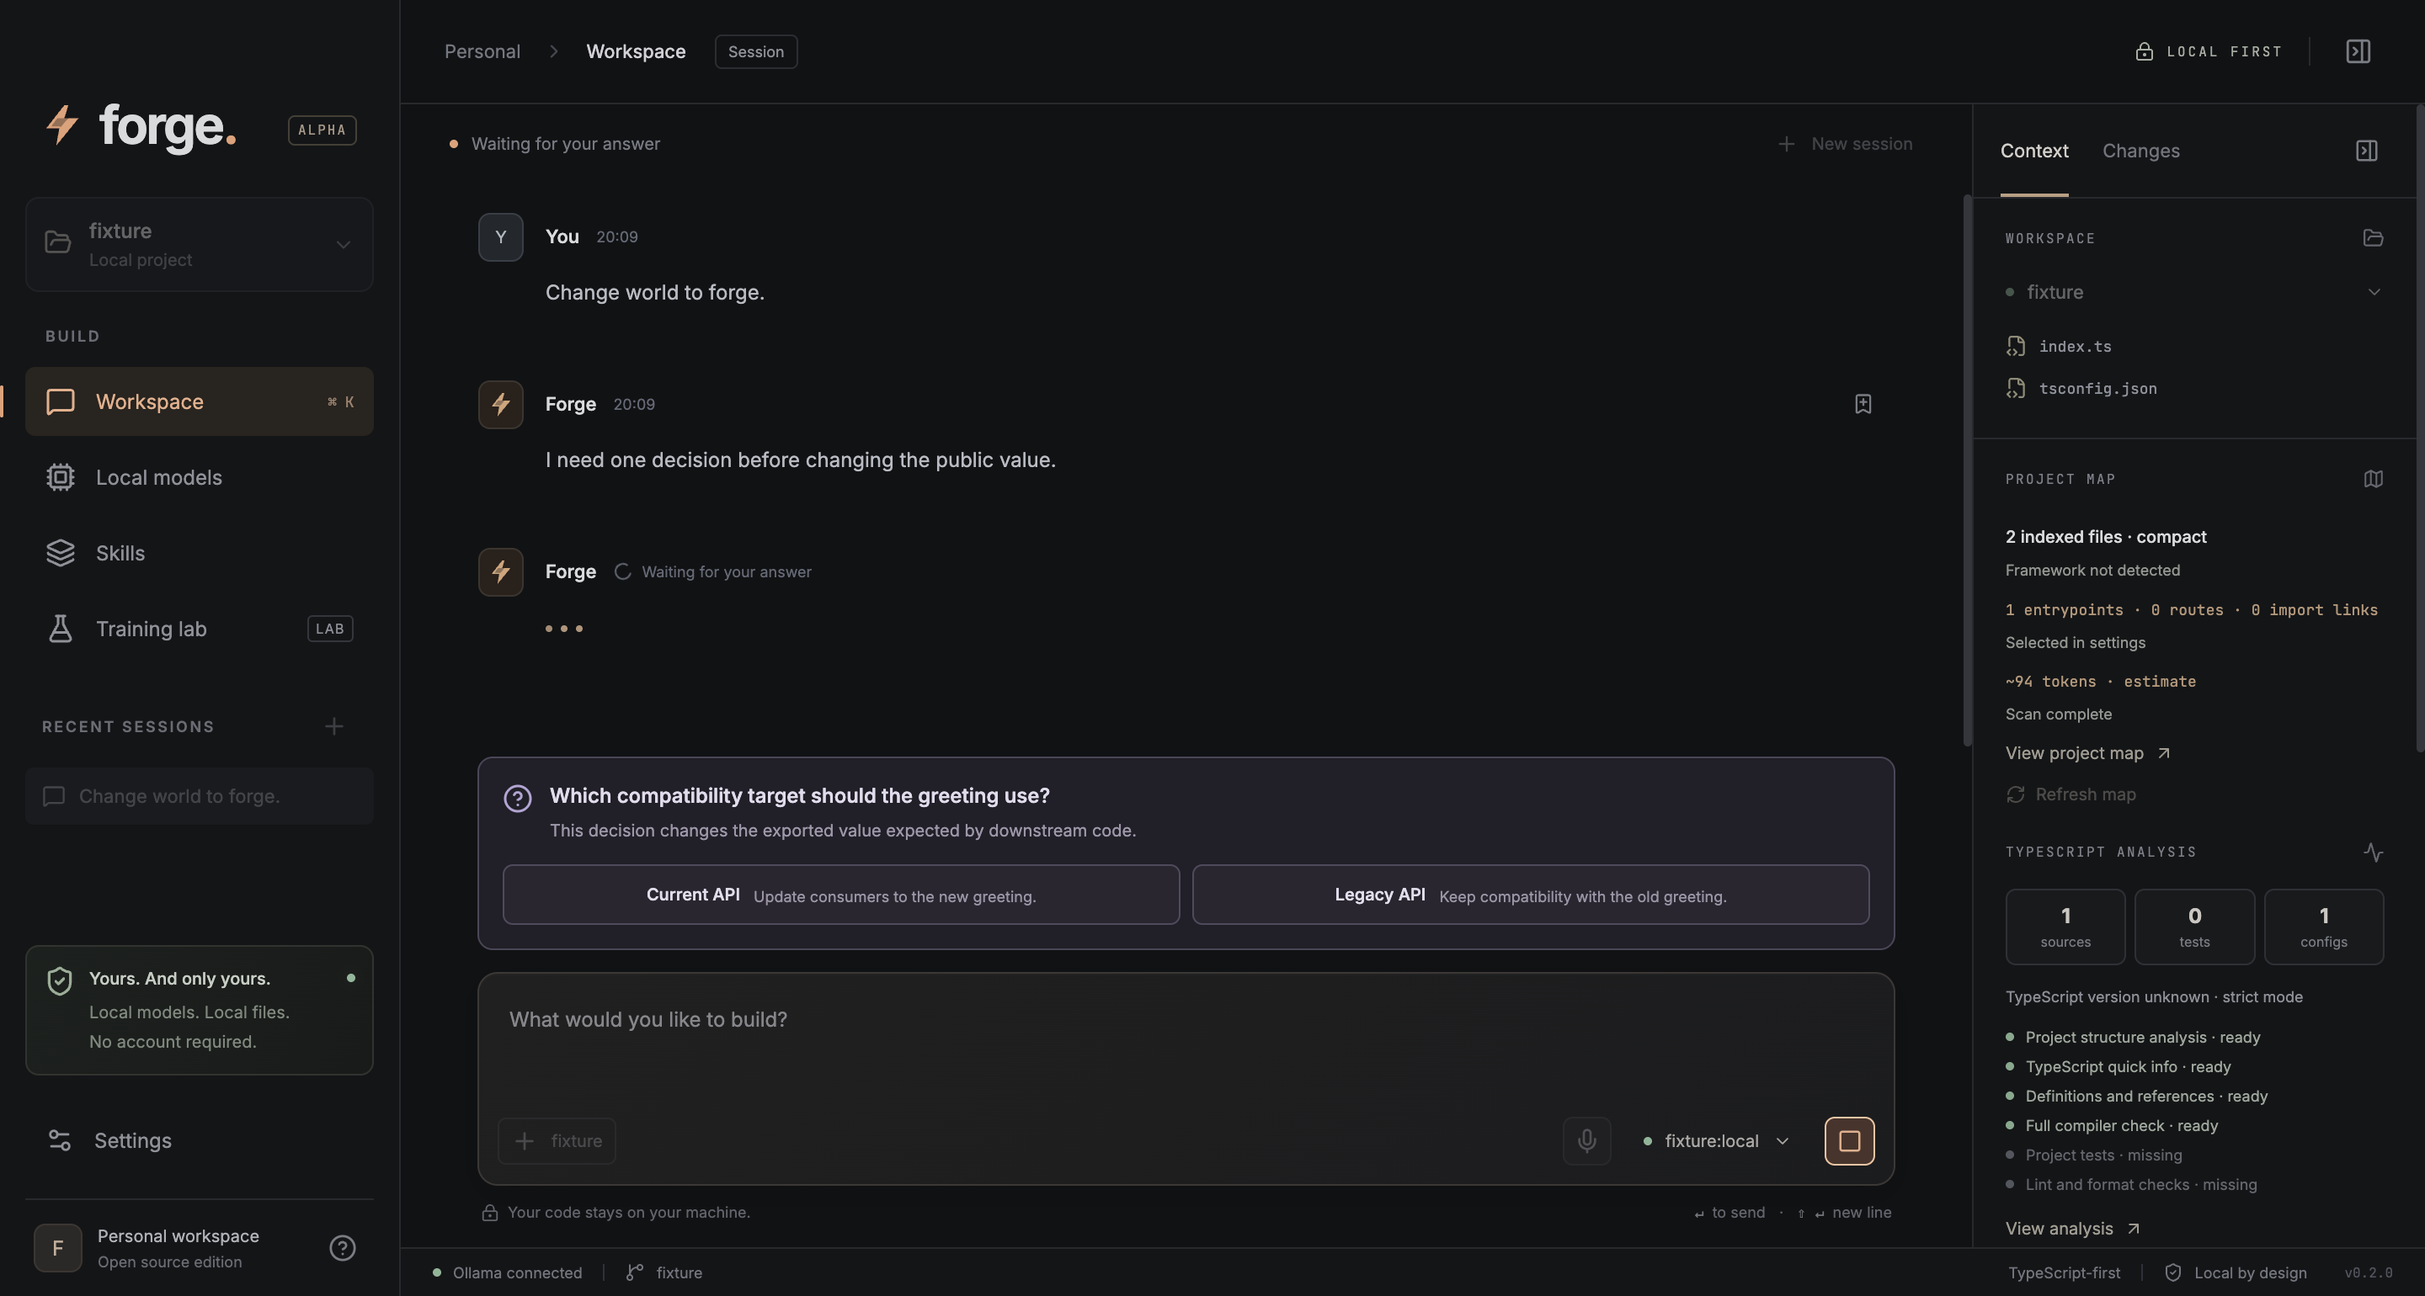
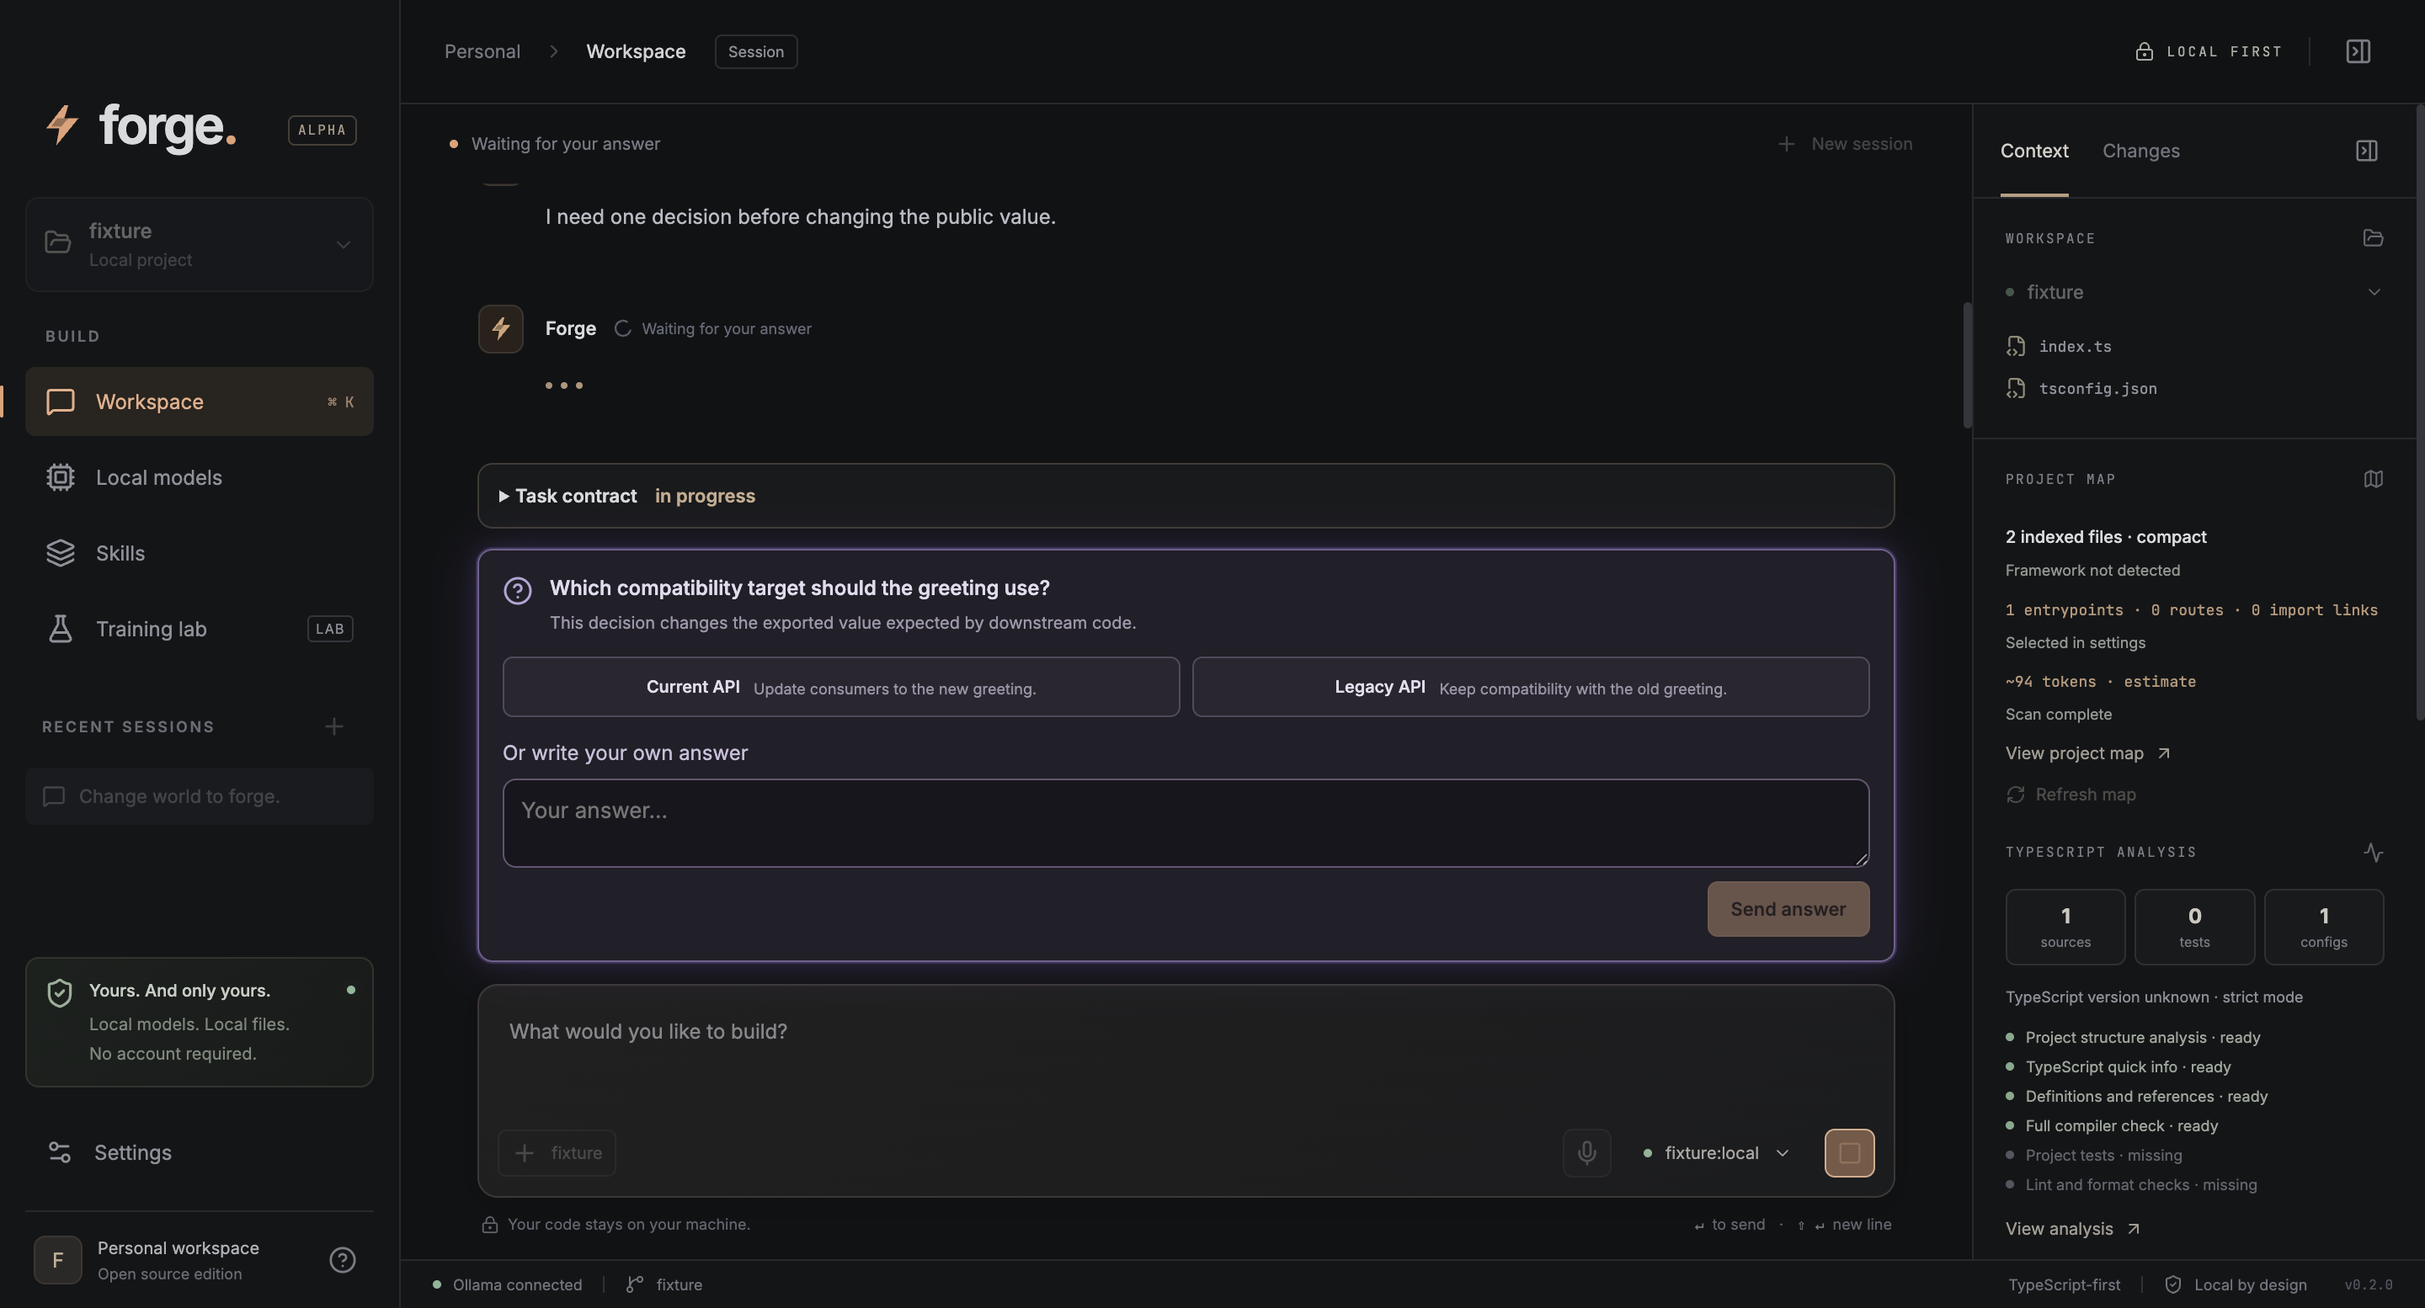
Add free-text clarifications and reject empty implementation results

diff --git a/electron/agent.ts b/electron/agent.ts
@@ -101,13 +101,14 @@ const schemas = {
       .string()
       .min(5)
       .max(300)
-      .describe('Why this answer can materially change the implementation.'),
+      .describe('Why this answer can materially change the implementation.')
+      .default('Your answer determines how this task should proceed.'),
     options: z
       .array(
-        z.object({
+        z.union([z.string().trim().min(1).max(100).transform((label) => ({ label })), z.object({
           label: z.string().min(1).max(100),
           description: z.string().min(1).max(240).optional(),
-        }),
+        })]),
       )
       .min(2)
       .max(4),
@@ -197,7 +198,7 @@ const toolDefinitions = Object.entries(schemas).map(([name, schema]) => ({
   function: {
     name,
     description: descriptions[name as keyof typeof schemas],
-    parameters: z.toJSONSchema(schema),
+    parameters: z.toJSONSchema(schema, { io: 'input' }),
   },
 }));
 
@@ -213,6 +214,7 @@ const requestsProjectChange = (prompt: string) =>
 export class Agent {
   busy = false;
   private controller?: AbortController;
+  private actionDeclined = false;
   private pending?: { id: string; resolve: (allow: boolean) => void };
   private pendingClarification?: {
     clarification: Clarification;
@@ -234,10 +236,10 @@ export class Agent {
     this.pending.resolve(allow);
     this.pending = undefined;
   }
-  answerClarification(id: string, optionId: string) {
+  answerClarification(id: string, optionId: string, text?: string) {
     if (this.pendingClarification?.clarification.id !== id)
       throw new Error('This question is no longer active.');
-    const answer = this.pendingClarification.clarification.options.find(
+    const answer = optionId === 'custom' ? { id: 'custom', label: z.string().trim().min(1).max(2000).parse(text) } : this.pendingClarification.clarification.options.find(
       (option) => option.id === optionId,
     );
     if (!answer) throw new Error('Choose one of the available answers.');
@@ -266,6 +268,7 @@ export class Agent {
       this.emit({ type: 'approval', approval });
     });
     this.store.journal('approval', { id: approval.id, allow: allowed }, run.id);
+    if (!allowed) this.actionDeclined = true;
     run.status = 'running';
     delete run.approval;
     await this.store.save();
@@ -299,6 +302,7 @@ export class Agent {
   }
   async run(prompt: string, sessionId?: string) {
     if (this.busy) throw new Error('An agent run is already active.');
+    this.actionDeclined = false;
     const root = this.store.value.workspacePath;
     if (!root) throw new Error('Open a workspace first.');
     const settings = structuredClone(this.store.value.settings);
@@ -453,6 +457,9 @@ export class Agent {
           ...(m.name ? { tool_name: m.name } : {}),
         })),
       ];
+      messages.splice(1, 0, { role: 'system', content: 'Defaults for new projects: TypeScript, pnpm. Do not ask the user to choose these or reconfirm requested file creation. An implementation request requires real file edits and validation. Questions are only for critical missing decisions; users can choose an option or supply their own answer. On a tool schema error, repair the arguments and call the same tool instead of printing JSON or inventing a tool name.' });
+      const implementationRequested = /(?:созда[йт]|собер[иёе]|реализ|добав|исправ|implement|build|create|fix|add\s)/i.test(prompt) && !readOnlyProjectUnderstanding;
+      let executionRepairs = 0;
       let understandingRepairs = 0;
       for (let step = 0; step < settings.maxSteps; step++) {
         signal.throwIfAborted();
@@ -484,6 +491,15 @@ export class Agent {
         if (recovered) {
           answer.content = recovered.prefix;
           answer.tool_calls = [recovered.call];
+        }
+        if (!answer.tool_calls?.length && implementationRequested && !task.appliedChanges) {
+          if (!this.actionDeclined && executionRepairs++ < 2 && step < settings.maxSteps - 1) {
+            messages.push(answer, { role: 'system', content: 'No changes were applied. The implementation is not complete. Use plan_task and file tools to implement the request. If an action was denied, respect the denial and explain the blocker; do not ask for it again.' });
+            delete this.store.value.activeRun!.stream;
+            continue;
+          }
+          answer.content = `Implementation is incomplete: no changes were applied to the workspace.\n\n${answer.content}`;
+          task.outcome = 'failed';
         }
         if (
           !answer.tool_calls?.length &&
@@ -892,13 +908,14 @@ export class Agent {
           );
       }
       signal.throwIfAborted();
-      task.outcome = task.appliedChanges
+      if (implementationRequested && !task.appliedChanges) task.outcome = 'failed';
+      task.outcome = task.outcome === 'failed' ? 'failed' : task.appliedChanges
         ? taskOutcome(task)
         : readOnlyProjectUnderstanding
           ? 'analysis_only'
           : 'completed_unverified';
       await publishTask();
-      this.store.value.activeRun!.status = 'completed';
+      this.store.value.activeRun!.status = task.outcome === 'failed' ? 'failed' : 'completed';
     } catch (error) {
       const message = signal.aborted
         ? 'Run stopped. Approved changes are retained with checkpoints.'

diff --git a/tests/core.test.ts b/tests/core.test.ts
@@ -218,7 +218,7 @@ for (const decision of ['approve', 'deny', 'stop'] as const)
     assert.equal(reloaded.value.sessions.length, 1);
   });
 
-test('agent pauses for a critical question and skips sibling actions until answered', async (t) => {
+for (const custom of [false, true]) test(`agent pauses for a critical question and accepts ${custom ? 'free text' : 'an option'}`, async (t) => {
   const root = await fixture();
   t.after(() => fs.rm(root, { recursive: true, force: true }));
   const project = path.join(root, 'project');
@@ -251,7 +251,7 @@ test('agent pauses for a critical question and skips sibling actions until answe
                   arguments: {
                     question: 'Which compatibility target should this change use?',
                     reason: 'The target changes the public API and generated output.',
-                    options: [
+                    options: custom ? ['Modern only', 'Legacy compatible'] : [
                       { label: 'Modern only', description: 'Use the current runtime API.' },
                       { label: 'Legacy compatible', description: 'Preserve the older API.' },
                     ],
@@ -284,7 +284,8 @@ test('agent pauses for a critical question and skips sibling actions until answe
       const answer = event.clarification.options.find(
         (option) => option.label === 'Legacy compatible',
       );
-      queueMicrotask(() => agent.answerClarification(event.clarification.id, answer!.id));
+      assert.throws(() => agent.answerClarification(event.clarification.id, 'custom', '  '));
+      queueMicrotask(() => agent.answerClarification(event.clarification.id, custom ? 'custom' : answer!.id, custom ? 'Support both APIs' : undefined));
     }
   });
   await agent.run('Update the compatibility layer.');
@@ -300,7 +301,7 @@ test('agent pauses for a critical question and skips sibling actions until answe
   assert.match(toolMessages.find((message) => message.name === 'write_file')!.content, /Skipped/);
   assert.deepEqual(
     JSON.parse(toolMessages.find((message) => message.name === 'ask_user_question')!.content),
-    {
+    custom ? { answer: 'Support both APIs' } : {
       answer: 'Legacy compatible',
       description: 'Preserve the older API.',
     },
@@ -308,7 +309,7 @@ test('agent pauses for a critical question and skips sibling actions until answe
   const nextMessages = (requests[1].messages as { role: string; content: string }[]).filter(
     (message) => message.role === 'tool',
   );
-  assert.ok(nextMessages.some((message) => message.content.includes('Legacy compatible')));
+  assert.ok(nextMessages.some((message) => message.content.includes(custom ? 'Support both APIs' : 'Legacy compatible')));
 });
 
 test(
@@ -365,3 +366,29 @@ test(
     );
   },
 );
+
+test('implementation-only prose cannot silently complete a task without files', async (t) => {
+  const root = await fixture();
+  t.after(() => fs.rm(root, { recursive: true, force: true }));
+  const project = path.join(root, 'project');
+  await fs.mkdir(project);
+  let calls = 0;
+  const { server, endpoint } = await mockServer(async (req, res) => {
+    for await (const _ of req) { /* drain body */ }
+    if (req.url === '/api/tags') return res.end('{"models":[{"name":"test:local","size":1}]}');
+    if (req.url === '/api/show') return res.end('{}');
+    calls++;
+    res.end(JSON.stringify({ message: { content: 'Here is your app. Everything is ready.' }, done: true }) + '\n');
+  });
+  t.after(() => server.close());
+  const store = new Store(path.join(root, 'data'));
+  await store.load();
+  t.after(() => store.close());
+  store.value.workspacePath = project;
+  store.value.settings = { ...store.value.settings, endpoint, model: 'test:local', mapFormat: 'compact' };
+  await new Agent(store, () => {}).run('Create a calculator application.');
+  assert.equal(calls, 3);
+  assert.equal(store.value.sessions[0].task?.outcome, 'failed');
+  assert.match(store.value.sessions[0].messages.at(-1)!.content, /no changes were applied/i);
+  assert.deepEqual(await fs.readdir(project), []);
+});

diff --git a/src/App.tsx b/src/App.tsx
@@ -106,6 +106,9 @@ export default function App() {
     changeSets,
   } = runView;
   const [prompt, setPrompt] = useState('');
+  const [customAnswer, setCustomAnswer] = useState('');
+  const [answerPending, setAnswerPending] = useState(false);
+  useEffect(() => { setCustomAnswer(''); setAnswerPending(false); }, [clarification?.id]);
   const [rightOpen, setRightOpen] = useState(true);
   const [rightTab, setRightTab] = useState<'context' | 'changes'>('context'),
     [file, setFile] = useState<{ path: string; content: string }>();
@@ -125,6 +128,7 @@ export default function App() {
     const Audio = window.AudioContext ?? (window as typeof window & { webkitAudioContext?: typeof AudioContext }).webkitAudioContext;
     if (!Audio) return;
     const context = new Audio();
+    if (typeof context.createOscillator !== 'function') { void context.close().catch(() => {}); return; }
     const oscillator = context.createOscillator(), gain = context.createGain();
     oscillator.type = 'sine';
     oscillator.frequency.setValueAtTime(740, context.currentTime);
@@ -134,7 +138,8 @@ export default function App() {
     gain.gain.exponentialRampToValueAtTime(0.0001, context.currentTime + 0.25);
     oscillator.connect(gain).connect(context.destination);
     oscillator.start(); oscillator.stop(context.currentTime + 0.26);
-    void context.close();
+    oscillator.onended = () => { void context.close(); };
+    return () => { void context.close().catch(() => {}); };
   }, [clarification?.id]);
   const notify = useCallback(
     (error: unknown) => setToast(error instanceof Error ? error.message : String(error)),
@@ -356,12 +361,15 @@ export default function App() {
     }
   }
   async function answerClarification(optionId: string) {
-    if (!clarification) return;
+    if (!clarification || answerPending) return;
+    setAnswerPending(true);
     try {
-      await api.answerClarification(clarification.id, optionId);
+      await api.answerClarification(clarification.id, optionId, optionId === 'custom' ? customAnswer.trim() : undefined);
       dispatchRun({ type: 'clarification-answered' });
     } catch (e) {
       notify(e);
+    } finally {
+      setAnswerPending(false);
     }
   }
   const capture = useCallback(
@@ -650,6 +658,7 @@ export default function App() {
                         {clarification.options.map((option) => (
                           <button
                             key={option.id}
+                            disabled={answerPending}
                             onClick={() => void answerClarification(option.id)}
                           >
                             <strong>{option.label}</strong>
@@ -657,6 +666,11 @@ export default function App() {
                           </button>
                         ))}
                       </div>
+                      <form className="clarification-custom" onSubmit={(event) => { event.preventDefault(); void answerClarification('custom'); }}>
+                        <label htmlFor="custom-answer">Or write your own answer</label>
+                        <textarea id="custom-answer" value={customAnswer} onChange={(event) => setCustomAnswer(event.target.value)} maxLength={2000} rows={2} disabled={answerPending} placeholder="Your answer…" />
+                        <button type="submit" className="primary" disabled={answerPending || !customAnswer.trim()}>Send answer</button>
+                      </form>
                     </div>
                   )}
                   {approval && (

diff --git a/electron/preload.ts b/electron/preload.ts
@@ -22,7 +22,7 @@ const api: ForgeAPI = {
   run: (prompt, sessionId) => ipcRenderer.invoke('run', prompt, sessionId),
   stop: () => ipcRenderer.invoke('stop'),
   approve: (id, allow) => ipcRenderer.invoke('approve', id, allow),
-  answerClarification: (id, optionId) => ipcRenderer.invoke('answer-clarification', id, optionId),
+  answerClarification: (id, optionId, text) => ipcRenderer.invoke('answer-clarification', id, optionId, text),
   saveExample: (prompt, response) => ipcRenderer.invoke('save-example', prompt, response),
   reviewExample: (id, reviewed) => ipcRenderer.invoke('review-example', id, reviewed),
   deleteExample: (id) => ipcRenderer.invoke('delete-example', id),

diff --git a/src/styles.css b/src/styles.css
@@ -1751,6 +1751,11 @@ small {
   align-items: flex-start;
   gap: 10px;
 }
+.clarification-custom { display: grid; gap: 8px; margin-top: 14px; }
+.clarification-custom label { color: #c7bdd9; font-size: 12px; }
+.clarification-custom textarea { width: 100%; resize: vertical; padding: 10px; background: #18161e; color: #eee8f8; border: 1px solid #645571; border-radius: 8px; }
+.clarification-custom button { justify-self: end; }
+@media (prefers-reduced-motion: reduce) { .clarification-card { animation: none; } }
 .clarification-heading > svg {
   flex-shrink: 0;
   color: #b5a4d6;

diff --git a/electron/main.ts b/electron/main.ts
@@ -410,10 +410,11 @@ app
     handle('approve', (id, allow) =>
       agent.approve(z.string().uuid().parse(id), z.boolean().parse(allow)),
     );
-    handle('answer-clarification', (id, optionId) =>
+    handle('answer-clarification', (id, optionId, text) =>
       agent.answerClarification(
         z.string().uuid().parse(id),
         z.string().min(1).max(200).parse(optionId),
+        z.string().trim().min(1).max(2000).optional().parse(text),
       ),
     );
     handle('save-example', async (prompt, response) => {

diff --git a/shared/types.ts b/shared/types.ts
@@ -175,7 +175,7 @@ export interface ForgeAPI {
   run(prompt: string, sessionId?: string): Promise<void>;
   stop(): Promise<void>;
   approve(id: string, allow: boolean): Promise<void>;
-  answerClarification(id: string, optionId: string): Promise<void>;
+  answerClarification(id: string, optionId: string, text?: string): Promise<void>;
   saveExample(prompt: string, response: string): Promise<Example[]>;
   deleteExample(id: string): Promise<Example[]>;
   reviewExample(id: string, reviewed: boolean): Promise<Example[]>;
